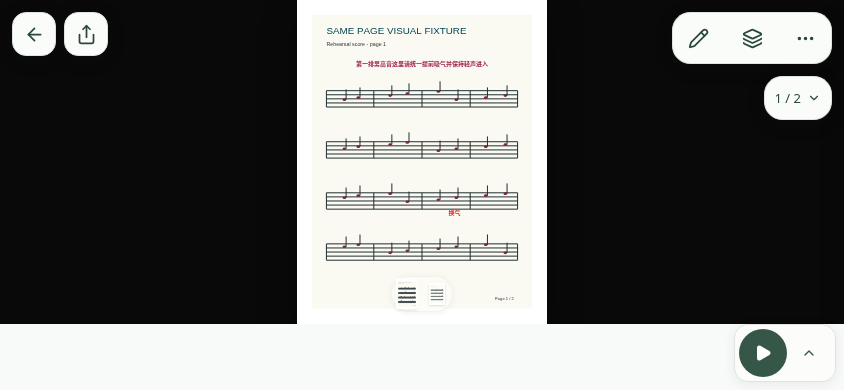
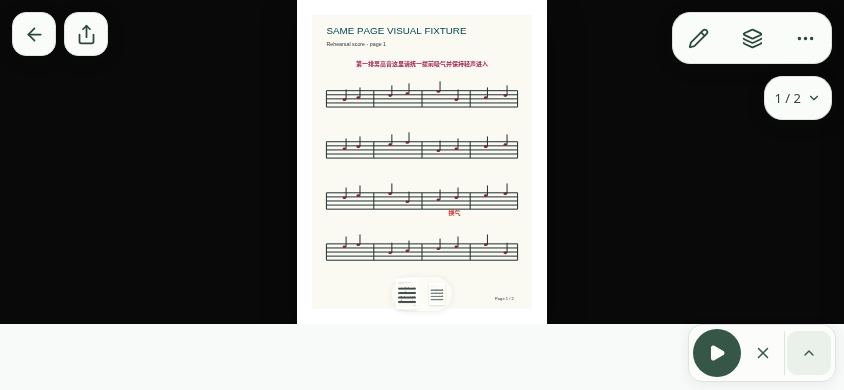
refactor: keep practice exit available and fit controls to available width

Changed region(s): [[0.8009, 0.8308, 0.955, 0.9846]]

diff --git a/src/client/playback/practice-player.css b/src/client/playback/practice-player.css
@@ -159,7 +159,7 @@
 .reader-shell[data-practicing] .reader-page-indicator { top: 8px; }
 @media (max-width: 380px) {
   .practice-header { gap: 0; padding-inline: max(4px,var(--safe-left)) max(4px,var(--safe-right)); }
-  .practice-bar { gap: 0; padding-inline: max(4px,var(--safe-left)) max(4px,var(--safe-right)); }
+  .practice-bar { gap: 0; padding-inline: 4px; }
   .practice-position { font-size: 11px; padding-inline: 2px; }
 }
 
@@ -206,10 +206,12 @@
 .practice-view-option { display: flex; align-items: center; justify-content: space-between; gap: 24px; min-height: 44px; padding: 0 12px; border-radius: 9px; font-size: 13px; outline: none; cursor: pointer; }
 .practice-view-option[data-focused], .practice-view-option[data-hovered] { background: var(--ui-soft, #eaf0e8); }
 .practice-view-option[data-selected] { color: var(--ui-accent, #28533e); font-weight: 600; }
-.practice-bar { position: relative; box-sizing: border-box; width: 100%; color: var(--ui-ink, #31463a); background: var(--ui-surface, #fcfdfb); border-top: 1px solid var(--ui-line, #dce4de); pointer-events: auto; display: grid; grid-template-columns: minmax(0,1fr) auto minmax(0,1fr); gap: 0; min-height: 64px; padding: 12px max(8px,var(--safe-right)) 4px max(8px,var(--safe-left)); }
+.practice-bar { position: relative; box-sizing: border-box; width: 100%; color: var(--ui-ink, #31463a); background: var(--ui-surface, #fcfdfb); border-top: 1px solid var(--ui-line, #dce4de); pointer-events: auto; display: grid; grid-template-columns: minmax(0,1fr) auto minmax(0,1fr); gap: 0; min-height: 64px; padding: 12px 8px 4px; }
 .practice-transport { justify-content: center; gap: 0; }
 .practice-transport .practice-play { flex-basis: 48px; width: 48px; height: 48px; }
-.practice-bar-meta { display: flex; align-items: center; min-width: 0; }
+.practice-bar-meta { display: flex; align-items: center; min-width: 0; grid-area: 2 / 1; }
+.practice-bar .practice-transport { grid-area: 2 / 2; }
+.practice-bar .practice-settings { grid-area: 2 / 3; }
 .practice-position, .practice-speed { appearance: none; box-sizing: border-box; width: 44px; min-width: 44px; height: 44px; min-height: 44px; padding: 0 2px; border: 0; border-radius: 9px; background: transparent; color: var(--ui-muted, #52665a); font: inherit; font-size: 12px; font-variant-numeric: tabular-nums; text-align: center; cursor: pointer; }
 .practice-position { overflow: hidden; text-overflow: ellipsis; white-space: nowrap; }
 .practice-position[data-hovered], .practice-speed:hover { background: var(--ui-soft, #edf1eb); }
@@ -218,7 +220,7 @@
 .practice-follow, .practice-notation[data-compare] .practice-follow { z-index: 7; min-height: 44px; padding: 0 14px; border: 1px solid var(--ui-line, #dce4de); border-radius: 24px; background: rgb(var(--ui-surface-rgb, 252 253 251) / 96%); color: var(--ui-ink, #365747); font: inherit; font-size: 12px; box-shadow: 0 2px 12px #17352b14; position: absolute; top: 8px; left: 8px; margin: 0; max-width: calc(100% - 80px); }
 .practice-comparison-pdf-stage { inset: 0; }
 .practice-comparison-pdf .reader-page-indicator, .reader-shell[data-practicing] .reader-page-indicator { top: 8px; right: max(8px,var(--safe-right)); min-height: 44px; height: 44px; border: 1px solid rgb(var(--ui-line-rgb, 220 228 222) / 50.2%); border-radius: 12px; background: rgb(var(--ui-surface-rgb, 252 253 251) / 90.98%); box-shadow: 0 2px 8px #17352b0a; backdrop-filter: blur(10px); }
-@media (max-width: 360px) { .practice-bar { padding-inline: max(4px,var(--safe-left)) max(4px,var(--safe-right)); } }
+@media (max-width: 360px) { .practice-bar { padding-inline: 4px; } }
 
 .reader-shell[data-practicing], .reader-shell[data-practicing] .page-reader__canvas-stage { background: var(--ui-surface, #f3f4f0); }
 
@@ -240,16 +242,26 @@
 .practice-dock[data-collapsed] { inset: auto max(8px,var(--safe-right)) max(8px,env(safe-area-inset-bottom)) auto; padding: 0; border-radius: 14px; background: transparent; }
 .practice-dock[data-collapsed] .practice-bar { display: flex; min-height: 48px; padding: 4px; border: 1px solid var(--ui-line, #dce4de); border-radius: 14px; background: rgb(var(--ui-surface-rgb, 252 253 251) / 96%); box-shadow: 0 2px 12px #17352b14; backdrop-filter: blur(10px); }
 .practice-dock[data-collapsed] .practice-notice { max-width: 260px; }
-.practice-bar-actions { gap: 2px; }
-.practice-expanded-controls { display: contents; }
-/* The collapse and close actions occupy separate targets above transport. */
-.practice-bar-heading { grid-column: 1 / -1; display: grid; grid-template-columns: minmax(0,1fr) auto minmax(0,1fr); }
-.practice-bar-heading .practice-controls-toggle { grid-column: 2; }
-.practice-close { grid-column: 3; justify-self: end; }
-.practice-dock[data-collapsed] .practice-bar-heading { display: contents; }
-.practice-dock[data-collapsed] .practice-controls-toggle { order: 3; }
-.practice-dock[data-collapsed] .practice-transport { order: 1; }
-.practice-dock[data-collapsed] .practice-bar-actions { order: 2; }
+.practice-expanded-controls, .practice-bar-actions { display: contents; }
+/* Narrow XML keeps its playback row; the two session actions share the row above. */
+.practice-session-actions { grid-area: 1 / 1 / 2 / -1; justify-self: end; display: flex; align-items: center; gap: 2px; }
+.practice-session-actions > button { flex: 0 0 auto; }
+.practice-close > svg { display: none; }
+.practice-dock:not([data-collapsed]) { container: practice-controls / inline-size; box-sizing: border-box; padding-inline: var(--safe-left) var(--safe-right); }
+/* Without container queries the narrow layout remains fully usable. */
+@container practice-controls (min-width: 380px) {
+  .practice-dock[data-audio] .practice-bar-meta { grid-row: 1; }
+  .practice-dock[data-audio] .practice-transport { grid-row: 1; }
+  .practice-dock[data-audio] .practice-bar-actions { display: flex; align-items: center; gap: 8px; grid-area: 1 / 3; justify-self: end; }
+}
+@container practice-controls (min-width: 600px) {
+  .practice-bar-meta, .practice-bar .practice-transport { grid-row: 1; }
+  .practice-bar-actions { display: flex; align-items: center; gap: 8px; grid-area: 1 / 3; justify-self: end; }
+}
+.practice-dock[data-collapsed] .practice-bar-actions { display: flex; align-items: center; gap: 2px; }
+.practice-dock[data-collapsed] .practice-close { width: 44px; padding: 0; border-inline-end: 1px solid var(--ui-line, #dce4de); border-radius: 0; }
+.practice-dock[data-collapsed] .practice-close > svg { display: block; }
+.practice-dock[data-collapsed] .practice-controls-toggle { width: 44px; padding: 0; }
 /* Reader-owned dialogs must cover the attached audio player. */
 .reader-shell:focus-visible { outline: 2px solid var(--ui-accent, #769787); outline-offset: -2px; }
 .practice-dock[data-audio] { z-index: 30; }

diff --git a/src/client/playback/practice-player-shell.tsx b/src/client/playback/practice-player-shell.tsx
@@ -106,10 +106,6 @@ export function PracticePlayerShell(props: Props) {
         : props.message && <div className="practice-notice" role="status"><span>{props.message}</span>{props.failed && <Button onPress={props.retry}>重试</Button>}</div>}
       {props.hint}
       <section className="practice-bar" aria-label={isXml ? '乐谱练习' : '音频播放'} data-testid="musicxml-player">
-        {!props.embedded && <div className="practice-bar-heading">
-          <TooltipTrigger><Button ref={controlsTrigger} className="practice-chrome-toggle practice-controls-toggle" aria-label={controlsCollapsed ? '展开练习控制' : '收起练习控制'} aria-expanded={!controlsCollapsed} aria-controls="practice-expanded-controls practice-bar-meta" onPress={() => { setPanel(null); controlsTrigger.current?.focus({ preventScroll: true }); focus.setControlsCollapsed(!controlsCollapsed); }}>{controlsCollapsed ? <ChevronUp size={16} aria-hidden="true" /> : <ChevronDown size={16} aria-hidden="true" />}{!controlsCollapsed && <span aria-hidden="true">收起</span>}</Button><Tooltip className="practice-tooltip" placement="top">{controlsCollapsed ? '展开练习控制' : '收起练习控制'}</Tooltip></TooltipTrigger>
-          <TooltipTrigger><Button className="practice-chrome-toggle practice-close" hidden={controlsCollapsed} aria-label={isXml ? '关闭播放器' : '关闭音频'} onPress={closePlayer}><X size={18} aria-hidden="true" /><span aria-hidden="true">关闭</span></Button><Tooltip className="practice-tooltip" placement="top">{isXml ? '关闭播放器' : '关闭音频'}</Tooltip></TooltipTrigger>
-        </div>}
         <div id="practice-expanded-controls" className="practice-expanded-controls" hidden={controlsCollapsed}><PlaybackTimeline timeline={props.timeline} /></div>
 
         <div id="practice-bar-meta" className="practice-bar-meta" hidden={controlsCollapsed}>
@@ -125,10 +121,14 @@ export function PracticePlayerShell(props: Props) {
 
         </div>
         <div className="practice-bar-actions">
-          {props.children && <div><TooltipTrigger>
+          {props.children && <TooltipTrigger>
           <Button ref={settingsTrigger} className="practice-icon practice-settings" aria-label="练习设置" aria-description={props.loopStatus ? `片段循环：${props.loopStatus}` : undefined} data-loop={props.loopStatus ? true : undefined} aria-expanded={panel === 'settings'} data-active={panel === 'settings' || undefined} onPress={() => setPanel(panel === 'settings' ? null : 'settings')}><SlidersHorizontal size={17} aria-hidden="true" /><span aria-hidden="true">练习</span></Button>
           <Tooltip className="practice-tooltip" placement="top">{props.loopStatus ? `片段循环：${props.loopStatus}` : "练习设置"}</Tooltip>
-        </TooltipTrigger></div>}
+        </TooltipTrigger>}
+        {!props.embedded && <div className="practice-session-actions">
+          <TooltipTrigger><Button className="practice-chrome-toggle practice-close" aria-label={isXml ? '退出练习' : '关闭音频'} onPress={closePlayer}><X size={18} aria-hidden="true" />{!controlsCollapsed && <span aria-hidden="true">{isXml ? '退出' : '关闭'}</span>}</Button><Tooltip className="practice-tooltip" placement="top">{isXml ? '退出练习' : '关闭音频'}</Tooltip></TooltipTrigger>
+          <TooltipTrigger><Button ref={controlsTrigger} className="practice-chrome-toggle practice-controls-toggle" aria-label={controlsCollapsed ? '展开练习控制' : '收起练习控制'} aria-expanded={!controlsCollapsed} aria-controls="practice-expanded-controls practice-bar-meta" onPress={() => { setPanel(null); controlsTrigger.current?.focus({ preventScroll: true }); focus.setControlsCollapsed(!controlsCollapsed); }}>{controlsCollapsed ? <ChevronUp size={16} aria-hidden="true" /> : <ChevronDown size={16} aria-hidden="true" />}{!controlsCollapsed && <span aria-hidden="true">收起</span>}</Button><Tooltip className="practice-tooltip" placement="top">{controlsCollapsed ? '展开练习控制' : '收起练习控制'}</Tooltip></TooltipTrigger>
+        </div>}
         </div>
       </section>
     </div>
